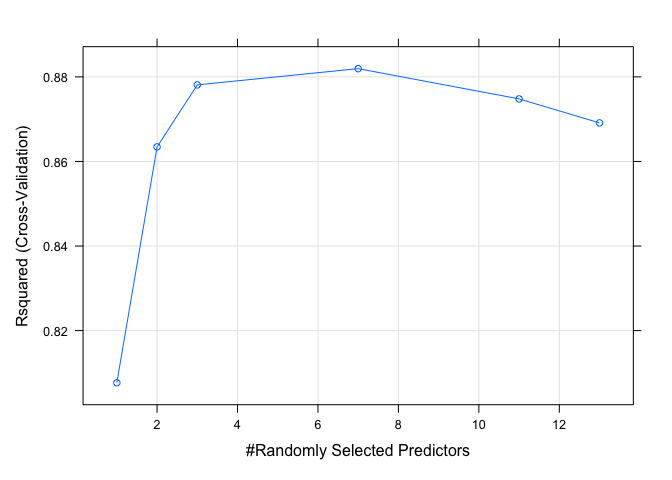
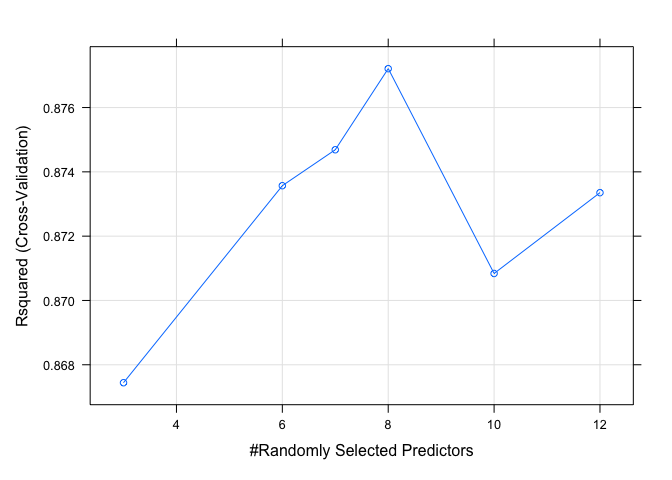
final

diff --git a/website.md b/website.md
@@ -1,5 +1,6 @@
-260Website
+260 Final Project: Boston House Price Prediction
 ================
+Vivian Shao
 2022-12-06
 
 # Introduction
@@ -129,7 +130,7 @@ found that the CHAS variable was binary, I used the as.factor() tranform
 it before using it for modeling.
 
 ``` r
-set.seed(1)
+set.seed(10)
 dat <- read.csv("boston.csv")
 split <- sample(1:nrow(dat), floor(0.8*nrow(dat)))
 
@@ -176,30 +177,30 @@ summary(mod1)
     ## 
     ## Residuals:
     ##      Min       1Q   Median       3Q      Max 
-    ## -11.3346  -2.8069  -0.6893   1.8473  25.8640 
+    ## -14.6092  -2.7220  -0.5774   1.7397  25.9586 
     ## 
     ## Coefficients:
     ##               Estimate Std. Error t value Pr(>|t|)    
-    ## (Intercept)  32.409784   6.062835   5.346 1.54e-07 ***
-    ## CRIM         -0.094209   0.041856  -2.251 0.024954 *  
-    ## ZN            0.040461   0.015676   2.581 0.010212 *  
-    ## INDUS         0.029975   0.069521   0.431 0.666582    
-    ## CHAS1         3.145406   0.971045   3.239 0.001301 ** 
-    ## NOX         -14.948362   4.417643  -3.384 0.000787 ***
-    ## RM            4.072640   0.487860   8.348 1.22e-15 ***
-    ## AGE          -0.004984   0.015085  -0.330 0.741255    
-    ## DIS          -1.435179   0.233561  -6.145 1.98e-09 ***
-    ## RAD           0.322335   0.073795   4.368 1.61e-05 ***
-    ## TAX          -0.013216   0.004153  -3.182 0.001579 ** 
-    ## PTRATIO      -0.884185   0.154686  -5.716 2.17e-08 ***
-    ## B             0.010581   0.003070   3.446 0.000631 ***
-    ## LSTAT        -0.552032   0.057237  -9.645  < 2e-16 ***
+    ## (Intercept)  38.177696   5.780878   6.604 1.31e-10 ***
+    ## CRIM         -0.077279   0.052417  -1.474 0.141205    
+    ## ZN            0.037210   0.015294   2.433 0.015425 *  
+    ## INDUS         0.013338   0.073135   0.182 0.855383    
+    ## CHAS1         2.750736   1.068721   2.574 0.010425 *  
+    ## NOX         -18.381466   4.358511  -4.217 3.08e-05 ***
+    ## RM            3.524380   0.473022   7.451 6.03e-13 ***
+    ## AGE           0.004915   0.014832   0.331 0.740522    
+    ## DIS          -1.426138   0.221958  -6.425 3.84e-10 ***
+    ## RAD           0.264717   0.076744   3.449 0.000623 ***
+    ## TAX          -0.011338   0.004333  -2.617 0.009223 ** 
+    ## PTRATIO      -0.968737   0.151327  -6.402 4.42e-10 ***
+    ## B             0.010705   0.003286   3.257 0.001223 ** 
+    ## LSTAT        -0.540427   0.058027  -9.313  < 2e-16 ***
     ## ---
     ## Signif. codes:  0 '***' 0.001 '**' 0.01 '*' 0.05 '.' 0.1 ' ' 1
     ## 
-    ## Residual standard error: 4.912 on 390 degrees of freedom
-    ## Multiple R-squared:  0.7412, Adjusted R-squared:  0.7326 
-    ## F-statistic: 85.92 on 13 and 390 DF,  p-value: < 2.2e-16
+    ## Residual standard error: 4.876 on 390 degrees of freedom
+    ## Multiple R-squared:  0.7186, Adjusted R-squared:  0.7092 
+    ## F-statistic:  76.6 on 13 and 390 DF,  p-value: < 2.2e-16
 
 I then began to build my predictive model using the Caret package and
 the trainControl() function to specify the number of folds. An important
@@ -254,15 +255,15 @@ print(model_lm)
     ## 
     ## No pre-processing
     ## Resampling: Cross-Validated (10 fold) 
-    ## Summary of sample sizes: 364, 363, 363, 364, 364, 364, ... 
+    ## Summary of sample sizes: 364, 363, 362, 365, 363, 364, ... 
     ## Resampling results:
     ## 
     ##   RMSE      Rsquared   MAE     
-    ##   4.969376  0.7359873  3.515424
+    ##   4.853974  0.7195932  3.465331
     ## 
     ## Tuning parameter 'intercept' was held constant at a value of TRUE
 
-The overall r-squared value for this model was 0.753. We can dive even
+The overall r-squared value for this model was 0.720. We can dive even
 further by looking at the individual metrics of each fold.
 
 ``` r
@@ -270,16 +271,16 @@ print(model_lm$resample)
 ```
 
     ##        RMSE  Rsquared      MAE Resample
-    ## 1  4.547991 0.7429570 3.522612   Fold01
-    ## 2  4.704179 0.7232006 3.360172   Fold02
-    ## 3  4.969463 0.7407737 3.912239   Fold03
-    ## 4  4.430434 0.7845323 3.362821   Fold04
-    ## 5  7.713476 0.5015428 4.285015   Fold05
-    ## 6  4.082940 0.7562486 3.439726   Fold06
-    ## 7  5.514434 0.7284347 3.876911   Fold07
-    ## 8  5.239584 0.8332903 3.329776   Fold08
-    ## 9  3.382829 0.8633415 2.593854   Fold09
-    ## 10 5.108426 0.6855515 3.471112   Fold10
+    ## 1  4.142627 0.7946388 3.208230   Fold01
+    ## 2  3.418539 0.7710501 2.712697   Fold02
+    ## 3  3.984948 0.8495578 3.002595   Fold03
+    ## 4  6.437784 0.6314753 3.710795   Fold04
+    ## 5  6.570579 0.6118868 4.520432   Fold05
+    ## 6  6.936057 0.5963270 4.764983   Fold06
+    ## 7  4.989138 0.6191684 3.295537   Fold07
+    ## 8  4.223357 0.7719788 3.316209   Fold08
+    ## 9  3.525244 0.8232545 2.723842   Fold09
+    ## 10 4.311466 0.7265950 3.397985   Fold10
 
 As we can see, while each fold’s performance varies slightly, they
 average out to 0.753. The final model’s coefficient and intercept
@@ -295,11 +296,11 @@ print(model_lm$finalModel)
     ## 
     ## Coefficients:
     ## (Intercept)         CRIM           ZN        INDUS        CHAS1          NOX  
-    ##   32.409784    -0.094209     0.040461     0.029975     3.145406   -14.948362  
+    ##   38.177696    -0.077279     0.037210     0.013338     2.750736   -18.381466  
     ##          RM          AGE          DIS          RAD          TAX      PTRATIO  
-    ##    4.072640    -0.004984    -1.435179     0.322335    -0.013216    -0.884185  
+    ##    3.524380     0.004915    -1.426138     0.264717    -0.011338    -0.968737  
     ##           B        LSTAT  
-    ##    0.010581    -0.552032
+    ##    0.010705    -0.540427
 
 I then moved on to generating new predictions on unseen data using this
 cross-validated model using the predict() function. This allows me to
@@ -314,9 +315,9 @@ new_true <- as.numeric(new_true_vector)
 cor(new_true, new_prediction)^2 
 ```
 
-    ## [1] 0.7391081
+    ## [1] 0.8075232
 
-The final r-squared value for the predictions was 0.760 which is very
+The final r-squared value for the predictions was 0.808 which is very
 close to the r-squared value from the cross-validation.
 
 ### Random Forest
@@ -349,14 +350,15 @@ validation for linear model, the cross validation for random forest
 actually selects the final model by outputting the most optimal mtry
 which is the number of variables to randomly sample as candidates at
 each split. I experimented with the number of folds and saw the best
-r-squared at 5 folds. Additionally, I set the tunelength to be 10 in my
-train() function to observe how the number of variables randomly sampled
-as candidates at each split can impact the model’s performance.
+r-squared at 10 folds, although the benefit was pretty small.
+Additionally, I set the tunelength to be 10 in my train() function to
+observe how the number of variables randomly sampled as candidates at
+each split can impact the model’s performance.
 
 ``` r
-set.seed(1)
+set.seed(10)
 control <- trainControl(method='cv', 
-                        number=5, 
+                        number=10, 
                         search = 'random')
 rf_random <- train(MEDV ~ .,
                    data = old,
@@ -373,24 +375,26 @@ print(rf_random)
     ##  13 predictor
     ## 
     ## No pre-processing
-    ## Resampling: Cross-Validated (5 fold) 
-    ## Summary of sample sizes: 324, 324, 324, 322, 322 
+    ## Resampling: Cross-Validated (10 fold) 
+    ## Summary of sample sizes: 364, 363, 363, 363, 363, 364, ... 
     ## Resampling results across tuning parameters:
     ## 
     ##   mtry  RMSE      Rsquared   MAE     
-    ##    1    4.624844  0.8076747  3.139660
-    ##    2    3.703571  0.8634455  2.504889
-    ##    3    3.437355  0.8781125  2.318403
-    ##    7    3.266543  0.8819451  2.201345
-    ##   11    3.338010  0.8747898  2.230320
-    ##   13    3.411574  0.8691184  2.253432
+    ##    3    3.429923  0.8674413  2.300892
+    ##    6    3.247348  0.8735693  2.222601
+    ##    7    3.244271  0.8746873  2.224622
+    ##    8    3.186096  0.8772092  2.194748
+    ##   10    3.248403  0.8708391  2.228277
+    ##   12    3.204338  0.8733523  2.222294
     ## 
     ## Rsquared was used to select the optimal model using the largest value.
-    ## The final value used for the model was mtry = 7.
+    ## The final value used for the model was mtry = 8.
 
-We can see from the plot below that the r-squared value peaks at a
-little above 0.88 when mtry = 4 and then begins to slowly decline as
-mtry increases.
+We can see from the plot below that the r-squared value increases
+gradually and peaks at a little above 0.88 when mtry = 12 in this
+scenario. However, I did notice that for other folds in
+cross-validation, the final value for mtry changes although all
+performances peak at a little over 0.88 r-squared.
 
 ``` r
 plot(rf_random)
@@ -398,7 +402,7 @@ plot(rf_random)
 
 ![](website_files/figure-gfm/unnamed-chunk-15-1.png)<!-- -->
 
-Therefore, my final model after cross validation uses 4 randomly select
+Therefore, my final model after cross validation uses 12 randomly select
 predictors. Furthermore, we can look at each fold’s performance in the
 final random forest model.
 
@@ -406,21 +410,26 @@ final random forest model.
 rf_random$resample
 ```
 
-    ##       RMSE  Rsquared      MAE Resample
-    ## 1 2.772828 0.8977812 2.073122    Fold1
-    ## 2 2.353065 0.9398164 1.917955    Fold2
-    ## 3 4.972422 0.7542459 2.619962    Fold3
-    ## 4 3.473756 0.9070017 2.342755    Fold4
-    ## 5 2.760643 0.9108804 2.052932    Fold5
+    ##        RMSE  Rsquared      MAE Resample
+    ## 1  2.539109 0.9182657 1.831180   Fold04
+    ## 2  3.093713 0.9089507 2.041672   Fold09
+    ## 3  3.215980 0.8832607 2.074490   Fold02
+    ## 4  3.130918 0.8406907 2.222489   Fold05
+    ## 5  2.735806 0.9252174 2.169524   Fold03
+    ## 6  3.513056 0.7591351 2.544553   Fold01
+    ## 7  2.297738 0.9583007 1.813947   Fold07
+    ## 8  3.613509 0.8710782 2.282453   Fold10
+    ## 9  4.233935 0.8108380 2.843767   Fold08
+    ## 10 3.487198 0.8963546 2.123409   Fold06
 
 Finally, we can use this final cross-validated random forest model on
 the held-out data to generate new house price predictions. Comparing the
 true observed values with the predicted values, the model’s final
-r-squared value was 0.932, almost 20% better than the linear model’s
-r-squared value.
+r-squared value was 0.918, 0.11 better than the linear model’s r-squared
+value.
 
 ``` r
-set.seed(1)
+set.seed(10)
 new_prediction_rf <- predict(rf_random, newdata=new_dat)
 new_prediction_rf <- as.numeric(new_prediction_rf)
 new_true_rf <- as.numeric(new_true_vector)
@@ -428,7 +437,7 @@ new_true_rf <- as.numeric(new_true_vector)
 cor(new_true_rf, new_prediction_rf)^2
 ```
 
-    ## [1] 0.7899955
+    ## [1] 0.9228545
 
 # Conclusion
 
@@ -459,3 +468,97 @@ comparing the advantages and disadvantages of both. If I had more time,
 I would like to explore using other types of models like Naive Bayes or
 further exploring how I can tranform my covariates in the lienar model
 for better fit.
+
+# Appendix
+
+# Appendix: All code for this report
+
+``` r
+knitr::opts_chunk$set(echo = TRUE)
+library(corrplot)
+library(ggplot2)
+library(tidyr)
+library(caret)
+dat <- read.csv("boston.csv")
+head(dat)
+dat <- read.csv("boston.csv")
+dat.cor <- cor(dat)
+corrplot(dat.cor,        
+         method = "shade", 
+         type = "full",     
+         diag = TRUE,       
+         tl.col = "black", 
+         bg = "white",     
+         col = NULL)
+dat |>
+  gather(-MEDV, key = "var", value = "value") |>
+  ggplot(aes(x = value, y = MEDV)) +
+  geom_point() +
+  geom_smooth(method = 'lm') +
+  facet_wrap(~ var, scales = "free") +
+  ylab('Price')
+set.seed(10)
+dat <- read.csv("boston.csv")
+split <- sample(1:nrow(dat), floor(0.8*nrow(dat)))
+
+#cv dataset
+old <- dat[split,]
+old$CHAS <- as.factor(old$CHAS)
+
+#held-out dataset
+new <- dat[-split,]
+new$CHAS <- as.factor(new$CHAS)
+new_true <- new[14]
+new_true_vector <- new_true[['MEDV']]
+new_dat <- new[1:13]
+mod1 <- lm(MEDV ~ ., data = old)
+summary(mod1)
+columns = c("k", "rsquared")
+test <- data.frame(matrix(nrow = 1, ncol = length(columns))) 
+colnames(test) = columns
+for(i in 2:35){
+  new <- rep(i, ncol(test))                      
+  test[nrow(test) + 1, ] <- new  
+  ctrl <- trainControl(method = "cv", number = i)
+  model <- train(MEDV ~ ., data = old, method = "lm", trControl = ctrl)
+  test$k[i] <- i
+  test$rsquared[i] <- model$results[1,3]
+}
+ggplot(data=test, aes(x=k, y=rsquared)) +
+  geom_line()+
+  geom_point()+ggtitle("Linear Regression")
+ctrl_lm <- trainControl(method = "cv", number = 10)
+model_lm <- train(MEDV ~ ., data = old, method = "lm", trControl = ctrl_lm)
+print(model_lm)
+print(model_lm$resample) 
+print(model_lm$finalModel)
+new_prediction <- predict(model_lm, newdata=new_dat)
+new_prediction <- as.numeric(new_prediction)
+new_true <- as.numeric(new_true_vector)
+
+cor(new_true, new_prediction)^2 
+dat |>
+  gather() |> 
+  ggplot(aes(value)) +
+  facet_wrap(~ key, scales = "free") +
+  geom_histogram(bins = 30)
+set.seed(10)
+control <- trainControl(method='cv', 
+                        number=10, 
+                        search = 'random')
+rf_random <- train(MEDV ~ .,
+                   data = old,
+                   method = 'rf',
+                   metric = 'Rsquared',
+                   tuneLength  = 10, 
+                   trControl = control)
+print(rf_random)
+plot(rf_random)
+rf_random$resample
+set.seed(10)
+new_prediction_rf <- predict(rf_random, newdata=new_dat)
+new_prediction_rf <- as.numeric(new_prediction_rf)
+new_true_rf <- as.numeric(new_true_vector)
+
+cor(new_true_rf, new_prediction_rf)^2
+```
